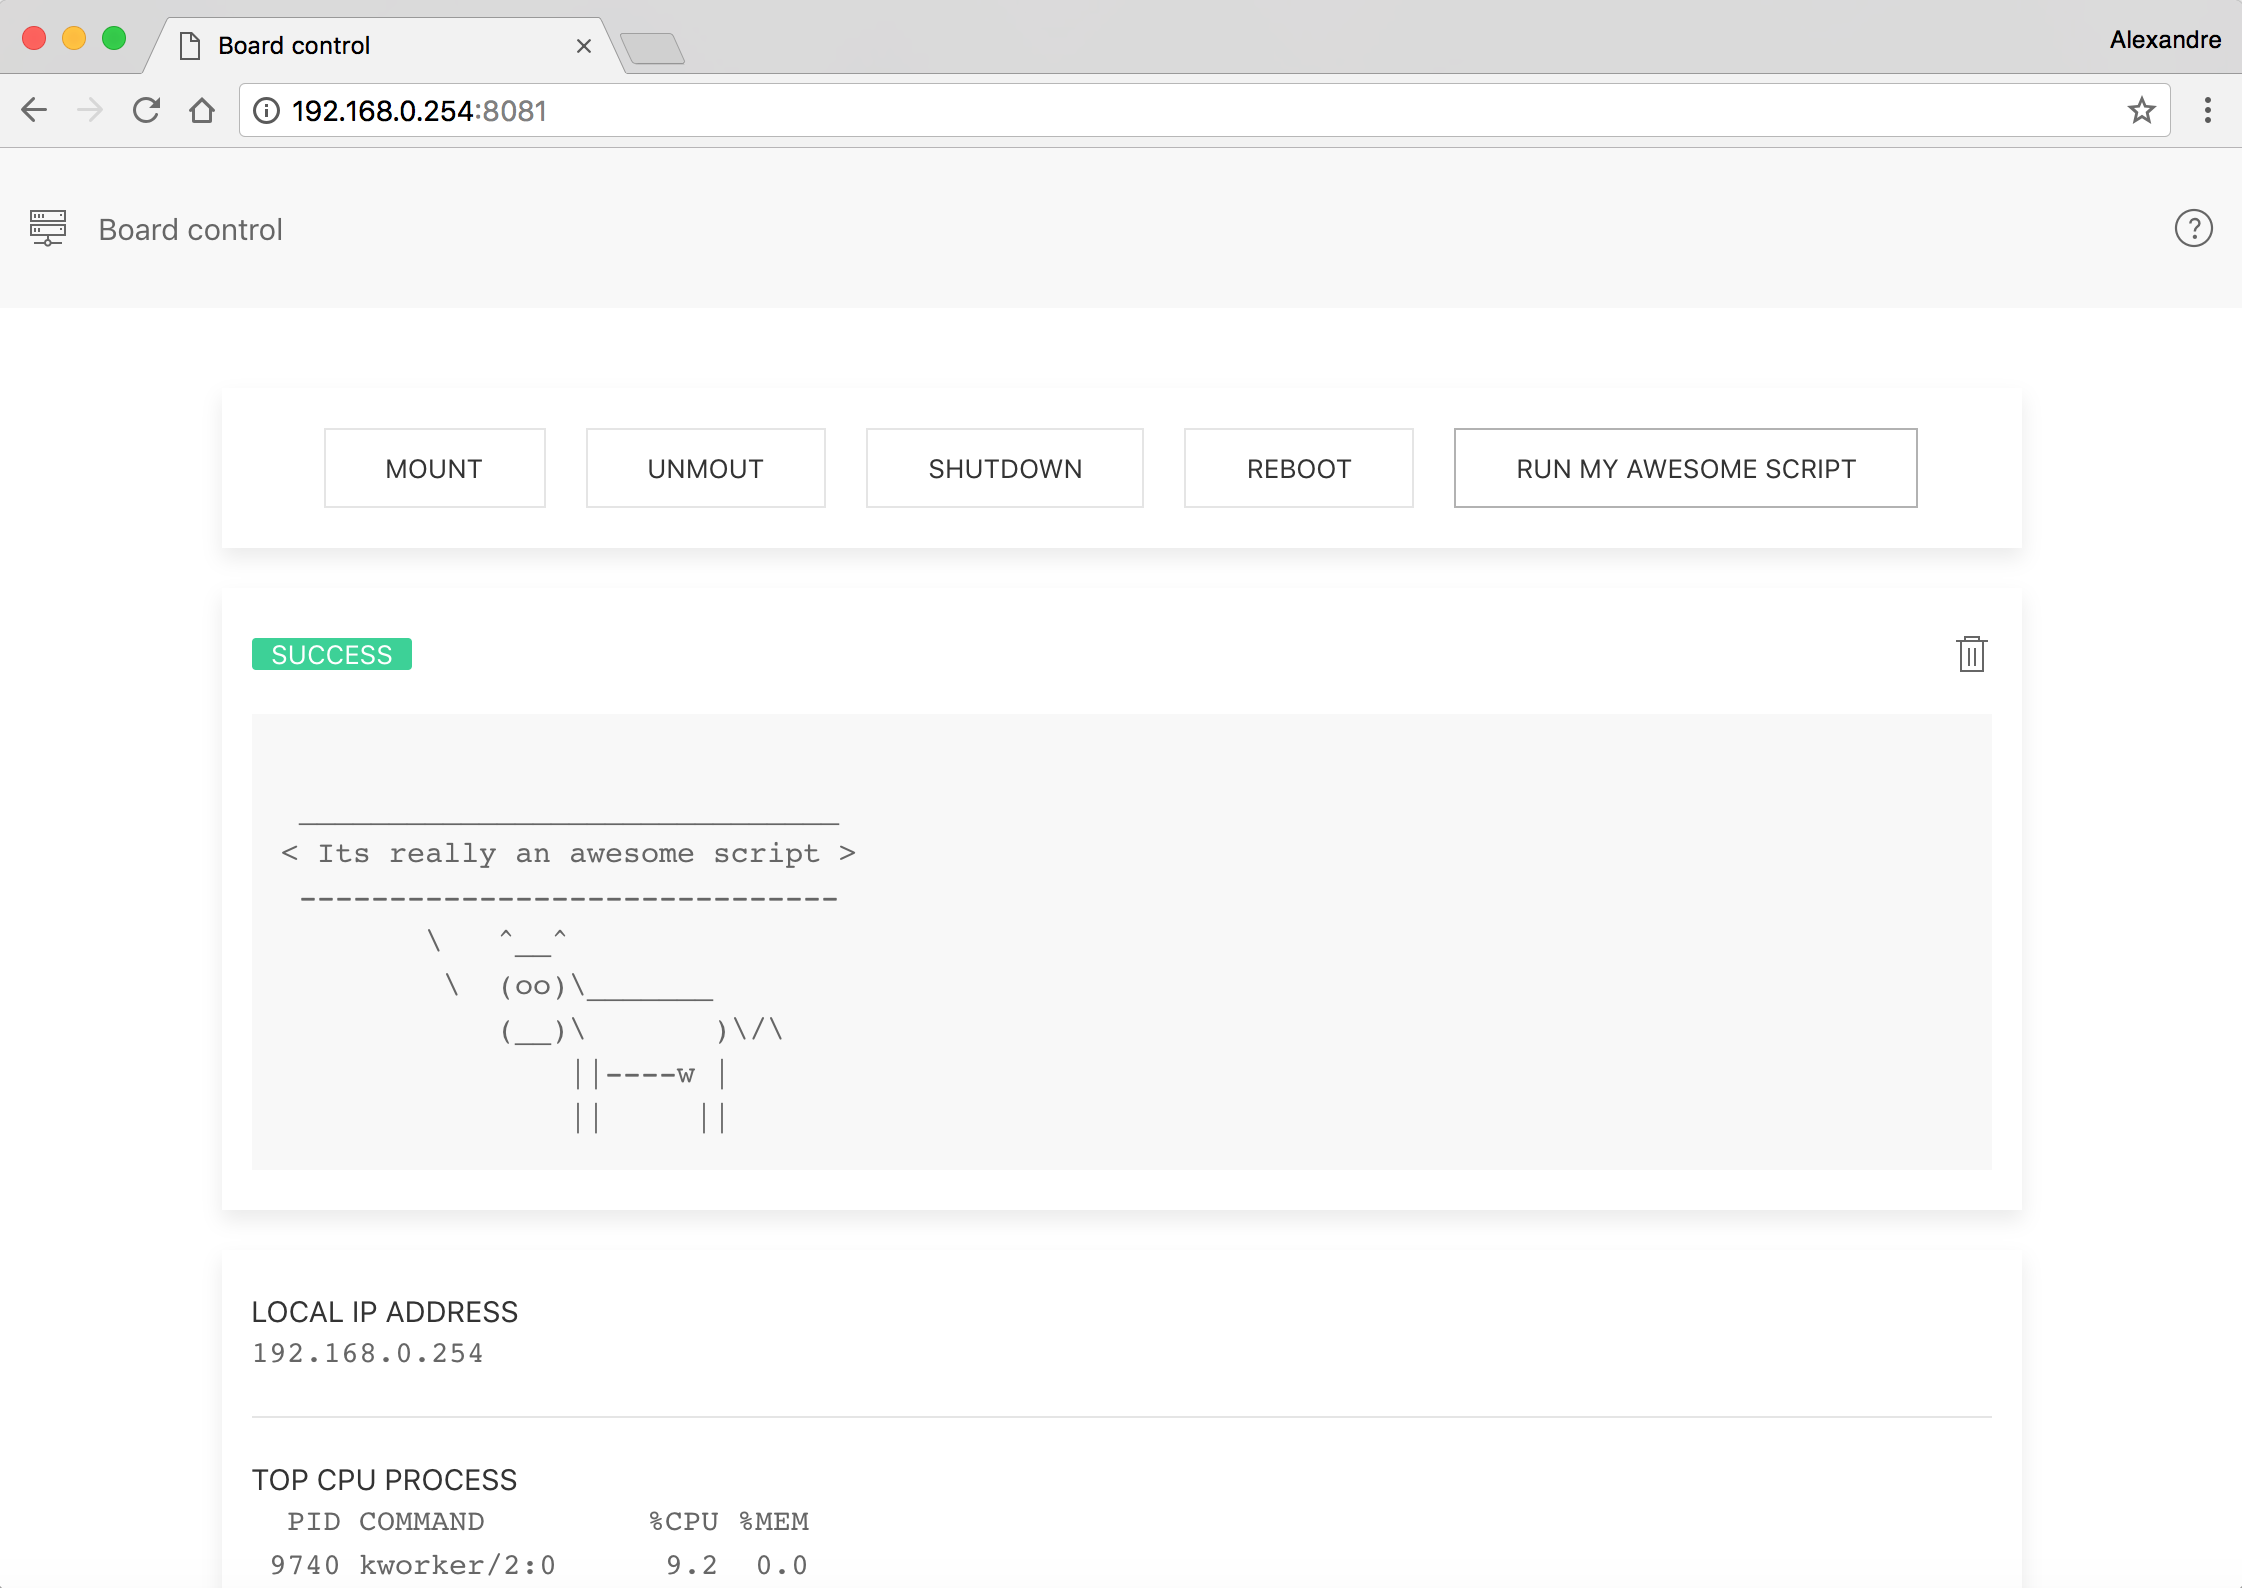
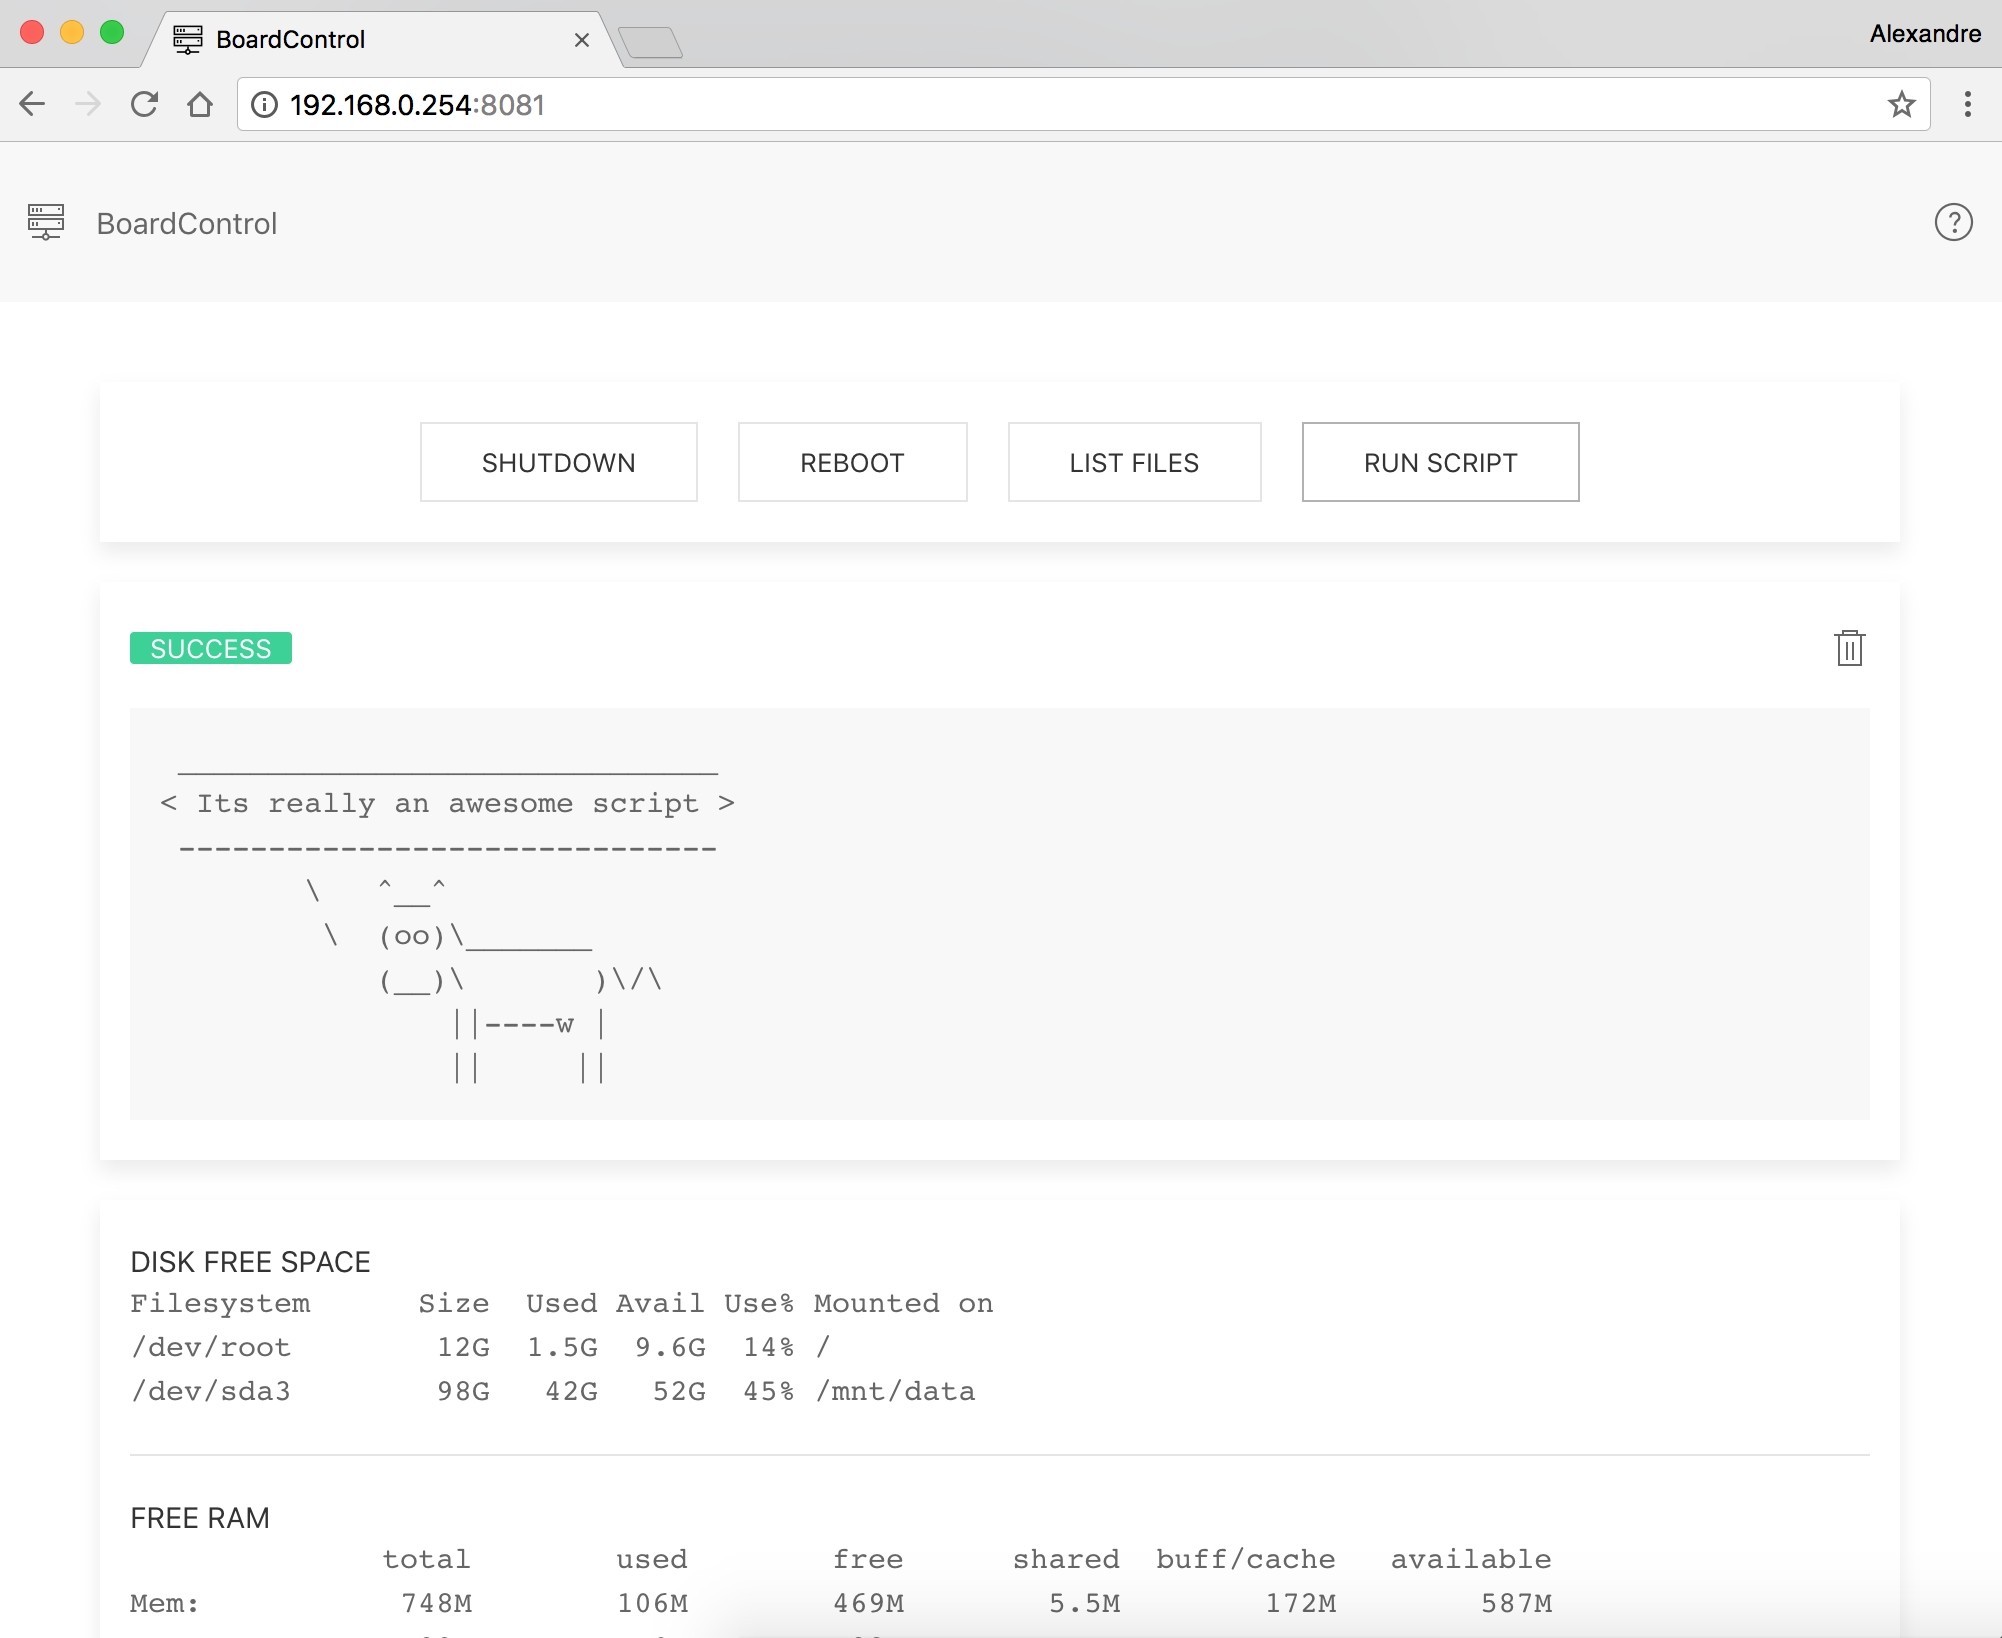
Improve README and default configuration

diff --git a/README.md b/README.md
@@ -141,24 +141,20 @@ exec | the bash command to execute, result will be shown on website
 }
 ```
 
+After updating the configuration, BoardControl need to be restarted
+
+```bash
+sudo service boardcontrol restart
+```
+
 #### Config example
 
 ```json
 {
     "config": {
         "listeningPort": 8081,
-        "pageTitle": "Board control",
+        "pageTitle": "BoardControl",
         "commands": [
-            {
-                "label": "Mount",
-                "nickname": "mont",
-                "exec": "mount -a"
-            },
-            {
-                "label": "Unmout",
-                "nickname": "umount",
-                "exec": "umount /media/*"
-            },
             {
                 "label": "Shutdown",
                 "nickname": "shutdown",
@@ -170,12 +166,33 @@ exec | the bash command to execute, result will be shown on website
                 "exec": "reboot"
             },
             {
-                "label": "Run my awesome script",
+                "label": "List files",
+                "nickname": "ls",
+                "exec": "ls /home"
+            },
+            {
+                "label": "Run script",
                 "nickname": "myscript",
                 "exec": "/path/to/my/./script.sh"
             }
         ],
         "informations": [
+            {
+                "label": "Disk free space",
+                "exec": "df -h | grep 'data\\|root\\|Size'"
+            },
+            {
+                "label": "Free ram",
+                "exec": "free -h"
+            },            
+            {
+                "label": "Top cpu process",
+                "exec": "ps -eo pid,comm,%cpu,%mem --sort=-%cpu | head -n 5"
+            },  
+            {
+                "label": "Uptime",
+                "exec": "uptime"
+            },
             {
                 "label": "Public IP address",
                 "exec": "curl -s http://checkip.dyndns.org/ | sed 's/[a-zA-Z<>/ :]//g'"
@@ -183,23 +200,8 @@ exec | the bash command to execute, result will be shown on website
             {
                 "label": "Local IP address",
                 "exec": "ifconfig | grep -E \"([0-9]{1,3}\\.){3}[0-9]{1,3}\" | grep -v 127.0.0.1 | awk '{ print $2 }' | cut -f2 -d: | head -n1"
-            },
-            {
-                "label": "Top cpu process",
-                "exec": "ps -eo pid,comm,%cpu,%mem --sort=-%cpu | head -n 5"
-            },
-            {
-                "label": "Free ram",
-                "exec": "free -h"
-            },
-            {
-                "label": "Uptime",
-                "exec": "uptime"
-            },
-            {
-                "label": "Disk free space",
-                "exec": "df -h | head -n2 "
             }
+
         ]
     }
 }
